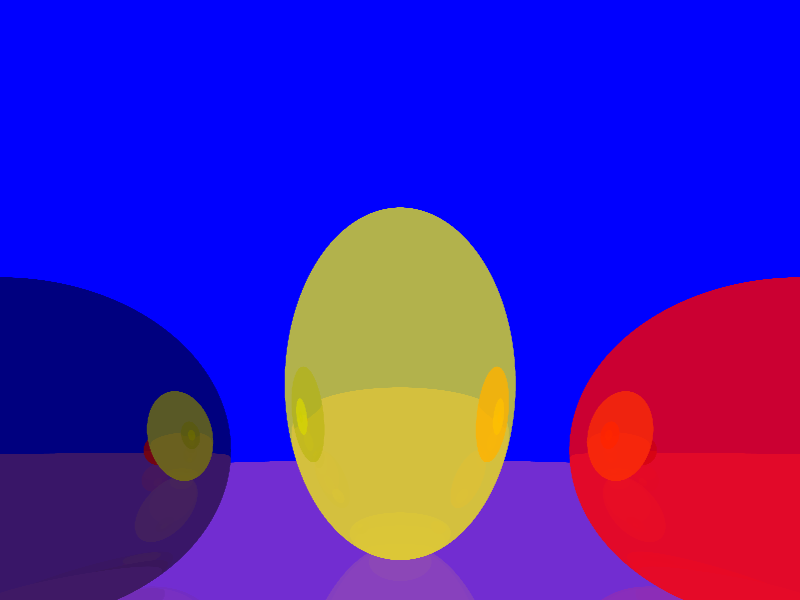
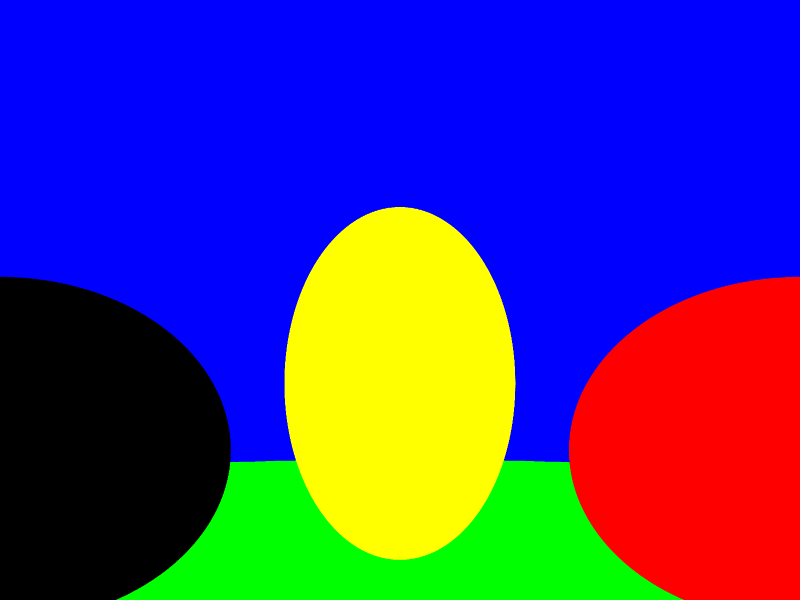
On perd les reflets mais les matériaux sont plus propres

diff --git a/src/main.rs b/src/main.rs
@@ -4,12 +4,14 @@ use minifb::{Window, WindowOptions, Key};
 use crate::raytracer::vec3::Vec3;
 use crate::raytracer::ray::Ray;
 use crate::raytracer::scene::Scene;
-use crate::raytracer::sphere::Sphere;
+use crate::raytracer::hittables::sphere::Sphere;
 use crate::raytracer::color::Color;
 use rand::Rng;
 use std::path::Path;
 use std::fs::File;
 use std::io::BufWriter;
+use std::time::Instant;
+use crate::raytracer::materials;
 
 
 const WIDTH: usize = 800;//1366;
@@ -44,33 +46,58 @@ fn main() {
         ambiant_light: Color {r:1.0, g:1.0, b:1.0},
         ambiant_power: 1.0,
     };
-    
+
+    let plain_red = materials::plain::Plain {
+        color: Color {
+            r: 1.0,
+            g: 0.0,
+            b: 0.0
+        }
+    };
+    let plain_yellow = materials::plain::Plain {
+        color: Color {
+            r: 1.0,
+            g: 1.0,
+            b: 0.0
+        }
+    };
+    let plain_green = materials::plain::Plain {
+        color: Color {
+            r: 0.0,
+            g: 1.0,
+            b: 0.0
+        }
+    };
+    let plain_black = materials::plain::Plain {
+        color: Color {
+            r: 0.0,
+            g: 0.0,
+            b: 0.0
+        }
+    };
+
     let sphere1 = Sphere {
         center: Vec3 {x:-1.5, y:0.5, z:-1.0},
-        color: Color {r:0.0, g:0.0, b:0.0},
         radius: 0.5,
-        reflect_power_value: 0.5,
+        material: Box::new(plain_black),
     };
 
     let sphere2 = Sphere {
         center: Vec3 {x: 0.0, y: 0.75, z: -1.5},
-        color: Color {r:1.0, g:1.0, b:0.0},
         radius: 0.75,
-        reflect_power_value: 0.3,
+        material: Box::new(plain_yellow),
     };
 
     let sphere3 = Sphere {
         center: Vec3 {x:1.5, y:0.5, z:-1.0},
         radius: 0.5,
-        color: Color {r:1.0, g:0.0, b:0.0},
-        reflect_power_value: 0.2,
+        material: Box::new(plain_red),
     };
 
     let sol = Sphere {
         center: Vec3 {x: 0.0, y: -1000.0, z: -1.0},
-        color: Color {r: 0.5, g: 0.2, b: 0.8},
         radius: 1000.0,
-        reflect_power_value: 0.1,
+        material: Box::new(plain_green),
     };
 
     scene.objects.push(Box::new(sphere1));
@@ -83,6 +110,8 @@ fn main() {
     let horizontal = Vec3 { x: 4.0, y: 0.0, z: 0.0 };
     let vertical = Vec3 { x: 0.0, y: 2.0, z: 0.0 };
     let origin = Vec3 { x: 0.0, y: 0.5, z: 0.0 };
+
+    let start = Instant::now();
 
     for i in 0..HEIGHT {
         for j in 0..WIDTH {
@@ -98,7 +127,7 @@ fn main() {
                             v * horizontal +
                             u * vertical
                     };
-                    color = color + scene.trace(rayon, MAX_RECURSIONS);
+                    color = color + scene.trace(&rayon, MAX_RECURSIONS);
                 }
             }
             color = color / (RAY_PER_PIXELS*RAY_PER_PIXELS) as f32;
@@ -106,7 +135,8 @@ fn main() {
         }
         window.update_with_buffer(&buffer).unwrap();
     }
-
+    let duration = start.elapsed();
+    println!("Rendering took {}s", duration.as_secs_f32());
     save_as_png("final.png", WIDTH as u32, HEIGHT as u32, &buffer);
     while window.is_open() && !window.is_key_down(Key::Escape) { window.update(); }
 }

diff --git a/src/raytracer/scene.rs b/src/raytracer/scene.rs
@@ -1,4 +1,4 @@
-use crate::raytracer::hittable::{Hittable, HitInfo};
+use crate::raytracer::hittables::hittable::{Hittable, HitInfo};
 use crate::raytracer::ray::Ray;
 use crate::raytracer::color::Color;
 use crate::raytracer::vec3::Vec3;
@@ -10,17 +10,17 @@ pub struct Scene {
 }
 
 impl Scene {
-    pub fn background_color(&self, rayon: Ray) -> Color{
+    pub fn background_color(&self, rayon: &Ray) -> Color{
         Color {r: 0.0, g: 0.0, b: 1.0}
     }
 
-    pub fn trace (&self, rayon: Ray, max_iter: usize) -> Color {
+    pub fn trace (&self, rayon: &Ray, max_iter: usize) -> Color {
         let mut closest_object: Option<&Box<dyn Hittable>> = None;
         let mut closest_hitinfo: HitInfo = HitInfo {distance: std::f32::INFINITY, normal: Vec3::zero(), point:Vec3::zero()};
         for object in self.objects.iter() {
             match object.compute_hit(&rayon) {
                 Some(hitinfo) => {
-                    if(hitinfo.distance < closest_hitinfo.distance) {
+                    if hitinfo.distance < closest_hitinfo.distance {
                         closest_object = Some(object);
                         closest_hitinfo = hitinfo;
                     }
@@ -31,7 +31,7 @@ impl Scene {
 
         match closest_object {
             Some(object) => {
-                let reflection_factor = object.get_reflect_factor(closest_hitinfo.point);
+                /*let reflection_factor = object.get_reflect_factor(closest_hitinfo.point);
 
                 if reflection_factor > 0.001 {
                     if max_iter > 0 {
@@ -47,7 +47,8 @@ impl Scene {
                     } else {
                         return object.get_color(&rayon) * self.ambiant_light * self.ambiant_power;
                     }
-                }
+                }*/
+                return object.get_material().get_color(&closest_hitinfo, self)
             }
             _ => {
 

diff --git a/src/raytracer/hittables/sphere.rs b/src/raytracer/hittables/sphere.rs
@@ -1,13 +1,12 @@
 use crate::raytracer::vec3::Vec3;
-use crate::raytracer::hittable::{Hittable, HitInfo};
 use crate::raytracer::ray::Ray;
-use crate::raytracer::color::Color;
+use crate::raytracer::hittables::hittable::{Hittable, HitInfo};
+use crate::raytracer::materials::material::Material;
 
 pub struct Sphere {
     pub center: Vec3,
-    pub color: Color,
     pub radius: f32,
-    pub reflect_power_value: f32,
+    pub material: Box<dyn Material>,
 }
 
 impl Hittable for Sphere {
@@ -34,14 +33,5 @@ impl Hittable for Sphere {
         }
         None
     }
-
-    fn get_intersect(&self, rayon: &Ray) -> Option<Vec3> {
-        None
-    }
-
-    fn get_color(&self, rayon: &Ray) -> Color {
-        self.color
-    }
-
-    fn get_reflect_factor(&self, point:Vec3) -> f32 {self.reflect_power_value}
+    fn get_material(&self) -> &Box<dyn Material> { &self.material }
 }

diff --git a/src/raytracer/hittables/hittable.rs b/src/raytracer/hittables/hittable.rs
@@ -1,6 +1,6 @@
 use crate::raytracer::ray::Ray;
 use crate::raytracer::vec3::Vec3;
-use crate::raytracer::color::Color;
+use crate::raytracer::materials::material::Material;
 
 pub struct HitInfo {
     pub distance: f32,
@@ -9,11 +9,6 @@ pub struct HitInfo {
 }
 
 pub trait Hittable {
-    fn get_reflect_factor(&self, point: Vec3) -> f32;
-
     fn compute_hit(&self, rayon: &Ray) -> Option<HitInfo>;
-
-    fn get_intersect(&self, rayon: &Ray) -> Option<Vec3>;
-
-    fn get_color(&self, rayon: &Ray) -> Color;
+    fn get_material(&self) -> &Box<dyn Material>;
 }

diff --git a/src/raytracer/hittables/plane.rs b/src/raytracer/hittables/plane.rs
@@ -1,0 +1,22 @@
+use crate::raytracer::vec3::Vec3;
+use crate::raytracer::hittables::hittable::Hittable;
+
+pub struct Plane {
+    pub origin: Vec3,
+    pub dir1: Vec3,
+    pub dir2: Vec3,
+    pub material: Material,
+}
+
+impl Hittable for Plane {
+
+
+    fn compute_hit(&self, rayon: &Ray) -> Option<HitInfo> {
+        unimplemented!()
+    }
+
+    fn get_intersect(&self, rayon: &Ray) -> Option<Vec3> {
+        unimplemented!()
+    }
+
+}

diff --git a/src/raytracer/materials/plain.rs b/src/raytracer/materials/plain.rs
@@ -1,0 +1,14 @@
+use crate::raytracer::color::Color;
+use crate::raytracer::materials::material::Material;
+use crate::raytracer::hittables::hittable::HitInfo;
+use crate::raytracer::scene::Scene;
+
+pub struct Plain {
+    pub color: Color,
+}
+
+impl Material for Plain {
+    fn get_color(&self, hitinfo: &HitInfo, scene: &Scene) -> Color {
+        self.color
+    }
+}

diff --git a/src/raytracer/materials/material.rs b/src/raytracer/materials/material.rs
@@ -1,0 +1,7 @@
+use crate::raytracer::hittables::hittable::HitInfo;
+use crate::raytracer::scene::Scene;
+use crate::raytracer::color::Color;
+
+pub trait Material {
+    fn get_color(&self, hitinfo: &HitInfo, scene: &Scene) -> Color;
+}

diff --git a/src/raytracer/mod.rs b/src/raytracer/mod.rs
@@ -1,6 +1,6 @@
 pub mod vec3;
 pub mod ray;
 pub mod scene;
-pub mod hittable;
-pub mod sphere;
 pub mod color;
+pub mod hittables;
+pub mod materials;

diff --git a/src/raytracer/hittables/mod.rs b/src/raytracer/hittables/mod.rs
@@ -1,0 +1,3 @@
+pub mod hittable;
+pub mod sphere;
+//pub mod plane;

diff --git a/src/raytracer/materials/mod.rs b/src/raytracer/materials/mod.rs
@@ -1,0 +1,2 @@
+pub mod material;
+pub mod plain;
